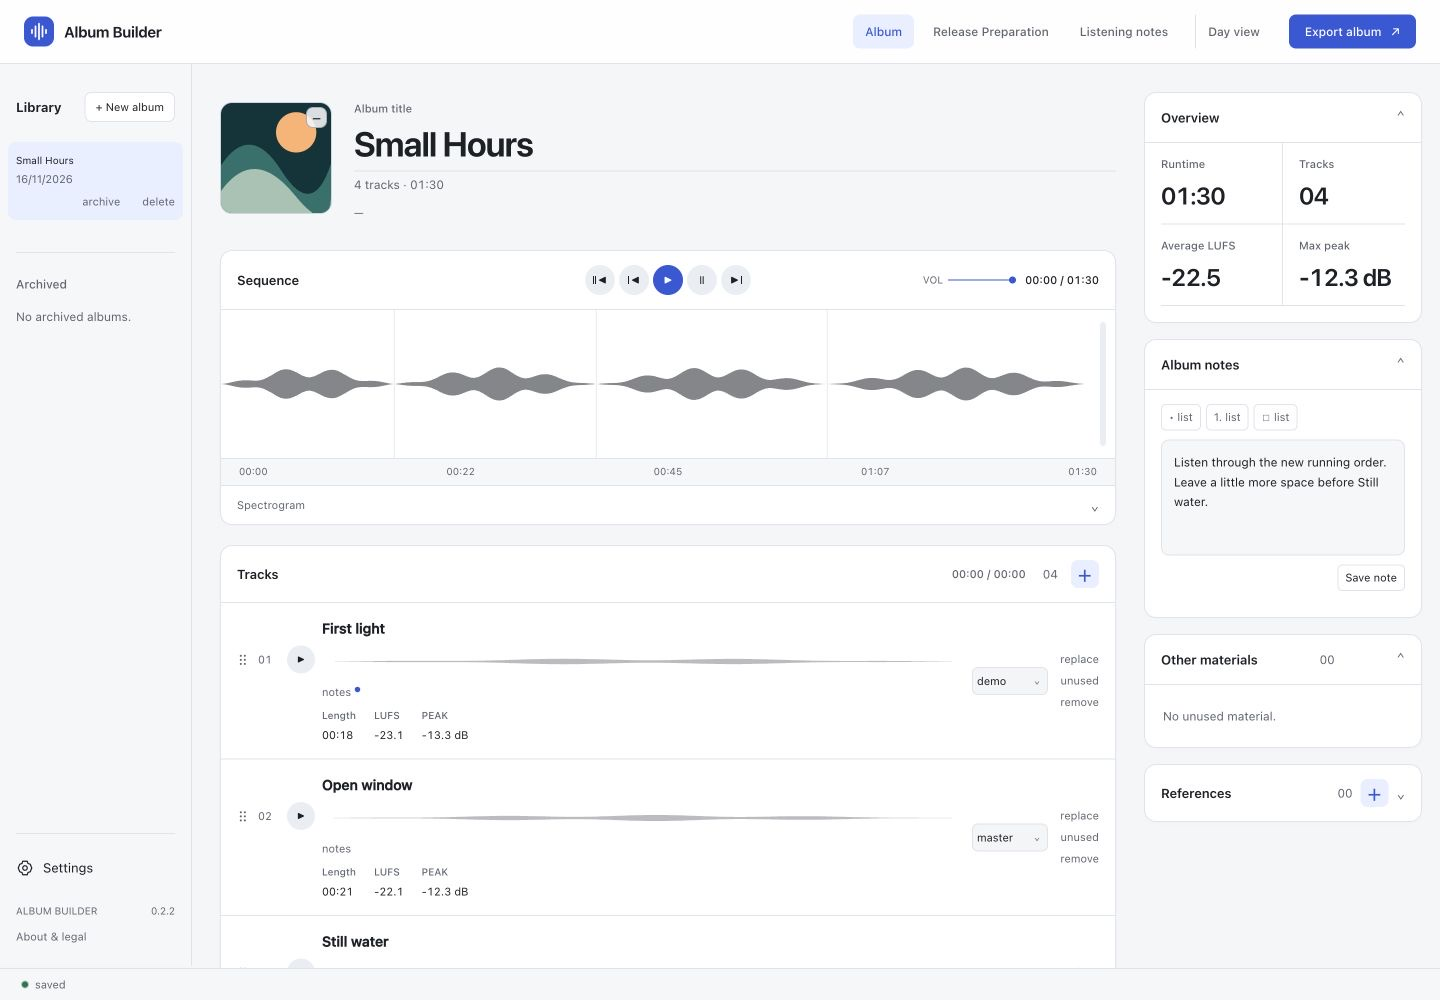
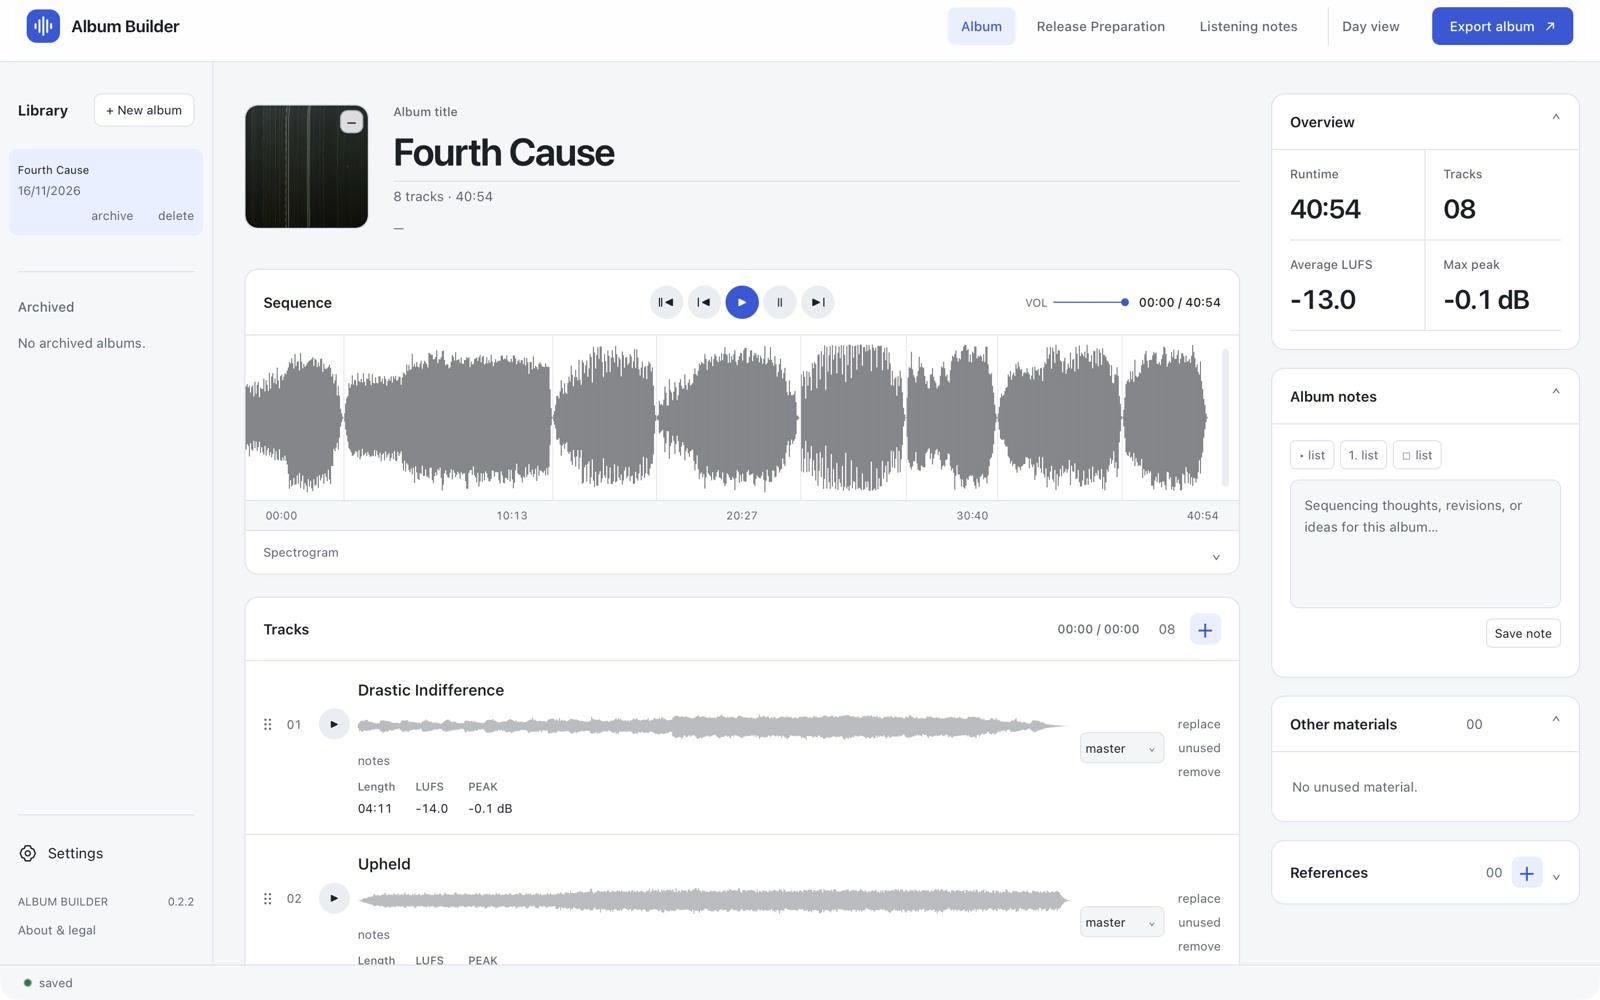
Show Fourth Cause in the album and release preparation views

diff --git a/README.md b/README.md
@@ -4,9 +4,9 @@ Album Builder gives an album or EP somewhere to take shape. I made it because I 
 
 There are two connected stages. **Album** is the listening and sequencing workspace. **Release Preparation** carries the same record into master metadata, artwork, promotional copy, videos and a delivery package. The source audio stays unchanged.
 
-![Album Builder showing the Small Hours demonstration album, track waveforms and listening notes.](docs/images/album-workspace.jpg)
+![Album Builder showing Fourth Cause by Bounty Hill, with its sequence waveform and master tracks.](docs/images/album-workspace.jpg)
 
-*The actual interface with generated demo audio and original example artwork. No personal album data is shown.*
+*Fourth Cause by Bounty Hill, with all eight WAV masters loaded.*
 
 This is a macOS development project, built with HTML, CSS, JavaScript and Tauri/Rust. The public repository contains source and build instructions, not a downloadable installer. The application remains copyrighted under the existing [Terms of Use](TERMS.md); making the source public does not grant an open-source licence.
 
@@ -90,7 +90,7 @@ Album Builder uses Lemon Squeezy's Licence API directly from the packaged Tauri 
 
 ## Release Preparation
 
-![Release Preparation showing shared release information, story and credits for the demonstration album.](docs/images/release-preparation.jpg)
+![Release Preparation showing the original release details, descriptions and credits for Fourth Cause by Bounty Hill.](docs/images/release-preparation.jpg)
 
 *Enter the release facts once, then reuse them across the prepared outputs.*
 
